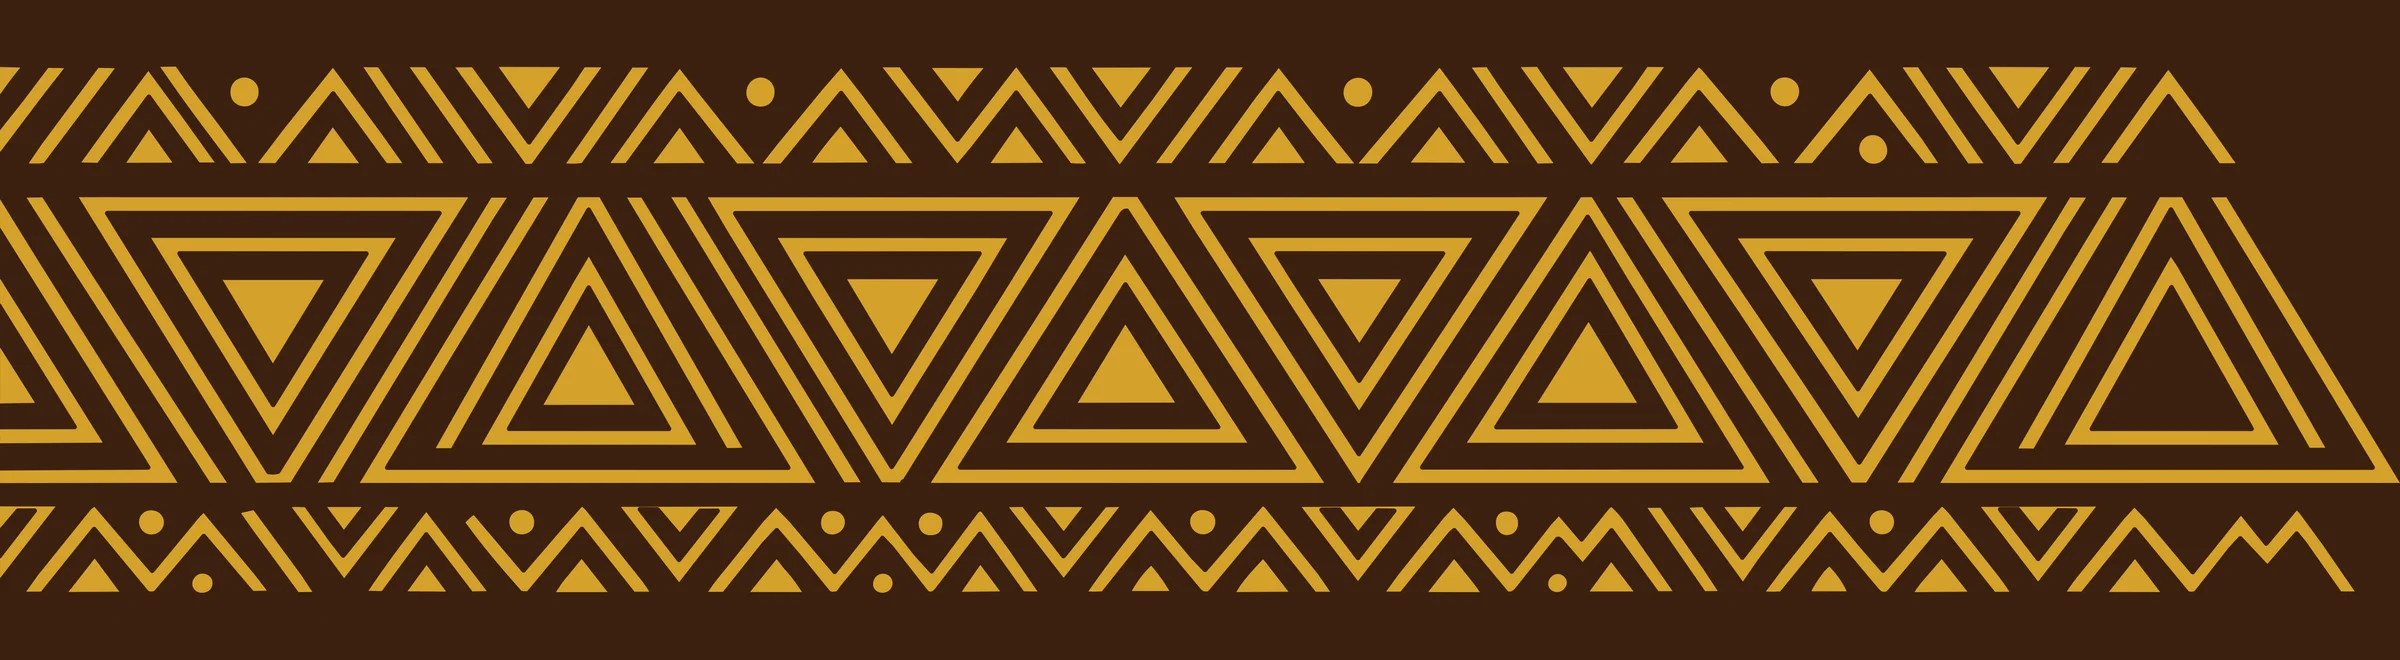
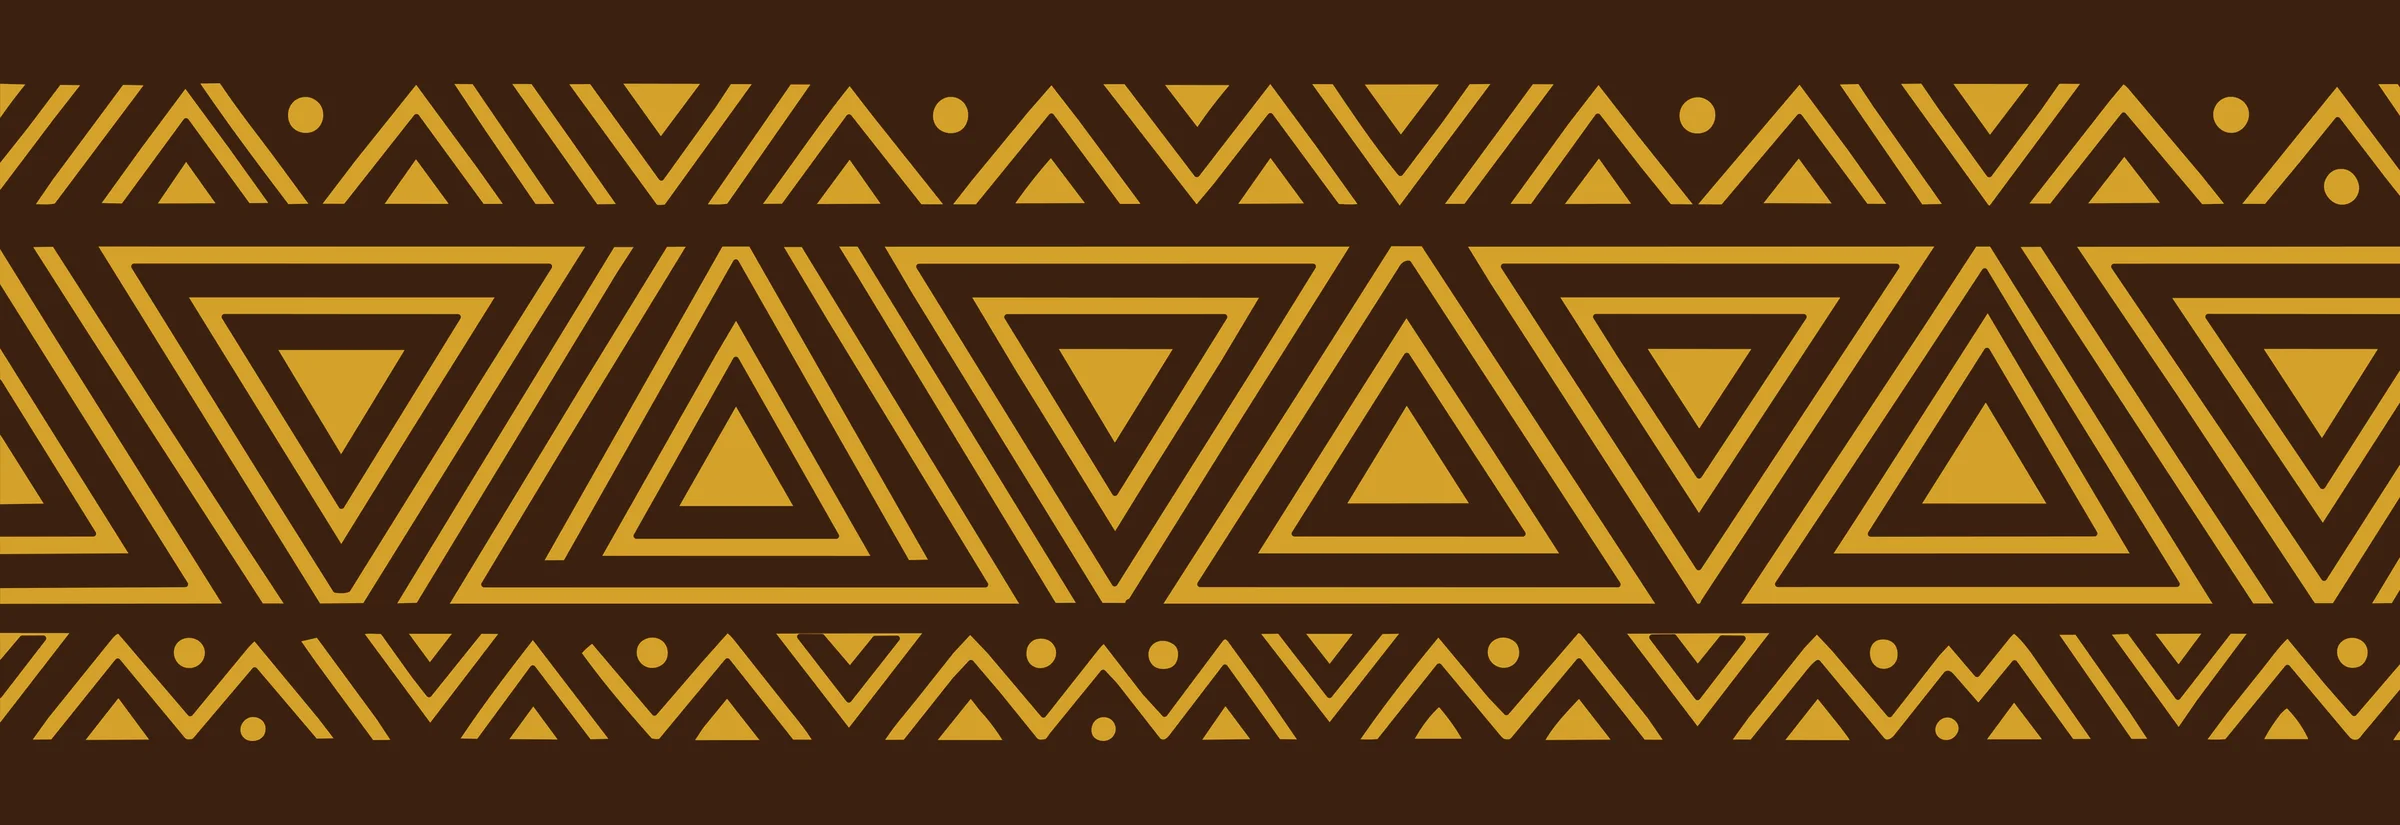
Crop the uneven right edge off the Komi's Kitchen pattern
Claude-Session: https://claude.ai/code/session_01Sct1QyVVZLjLqxWR7W7Z8w

diff --git a/komis-kitchen.html b/komis-kitchen.html
@@ -105,7 +105,7 @@
 			</div>
 		</div>
 		<div class="cs-media cs-one">
-			<img src="./images/Komis/pattern.webp" alt="Komi’s Kitchen brand pattern in ochre gold on deep brown" style="--ar: 3.6364;" loading="lazy" />
+			<img src="./images/Komis/pattern.webp" alt="Komi’s Kitchen brand pattern in ochre gold on deep brown" style="--ar: 2.9091;" loading="lazy" />
 		</div>
 		<div class="cs-media cs-one">
 			<img src="./images/Komis/restaurant-signage.webp" alt="Komi’s Kitchen restaurant signage" style="--ar: 1.3994;" loading="lazy" />
